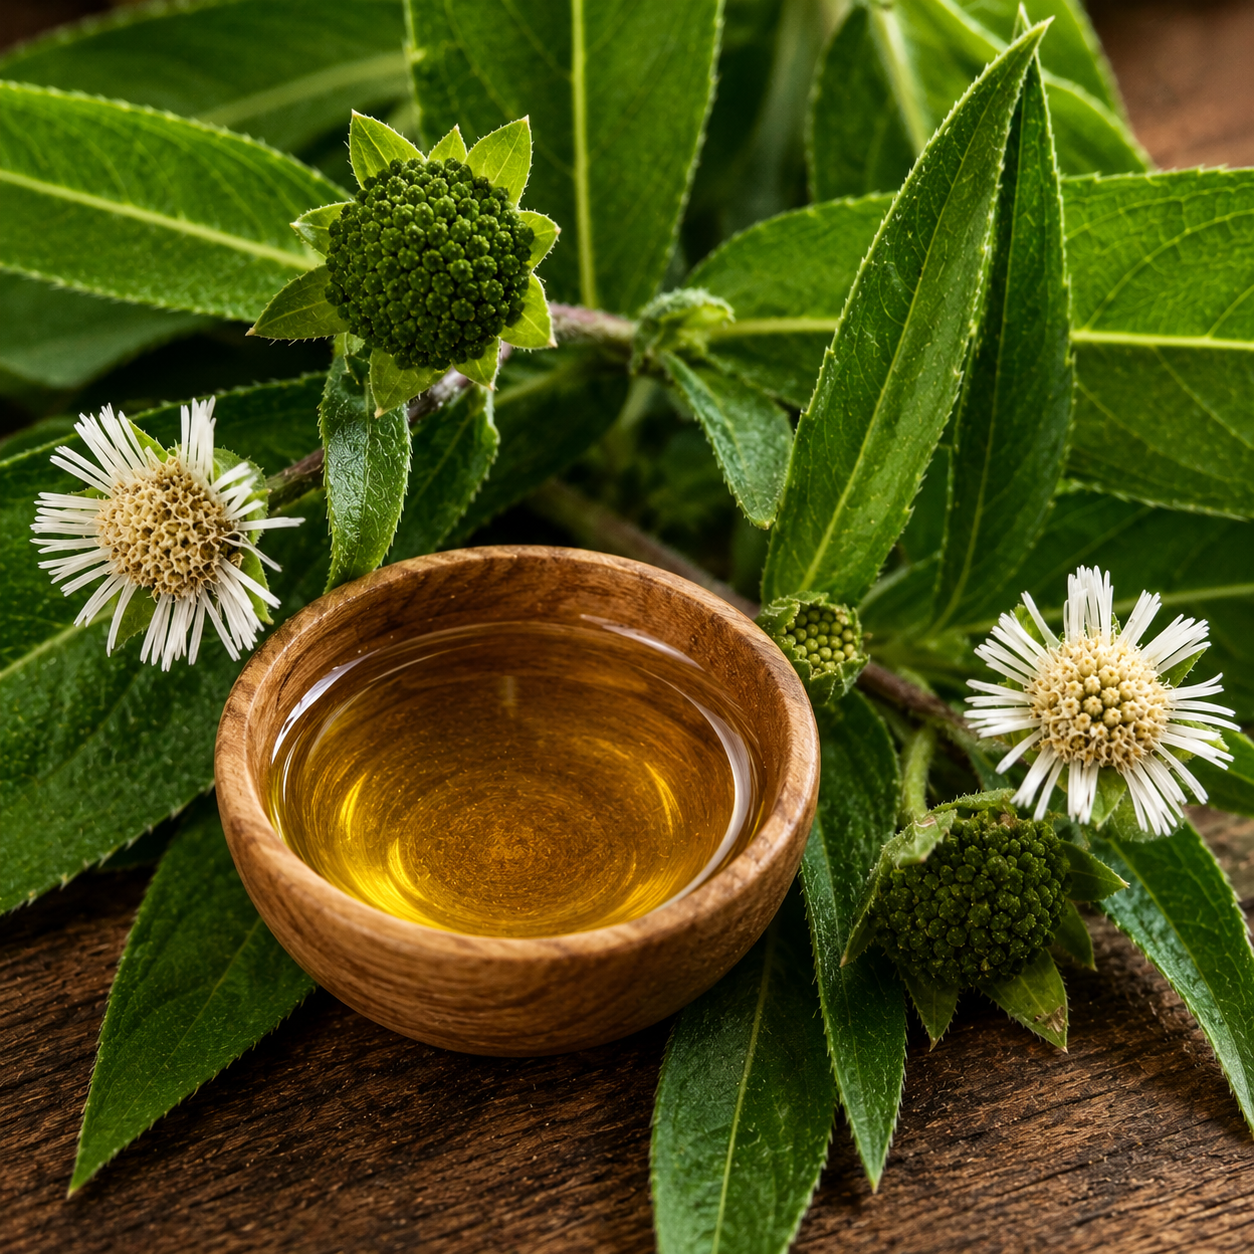
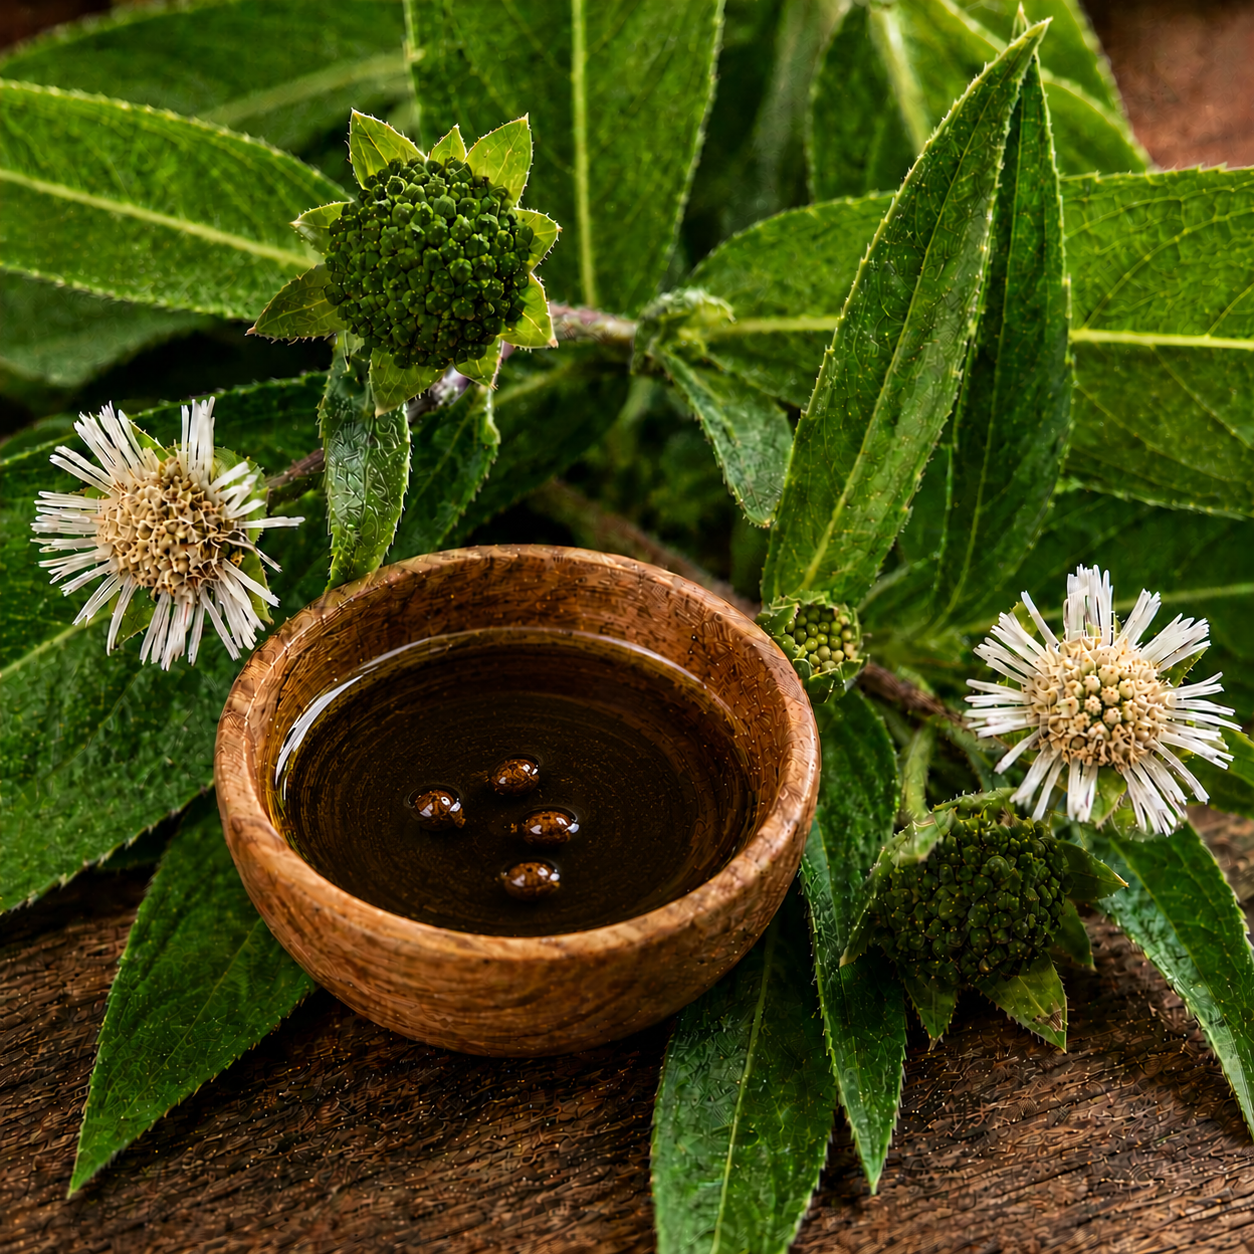
ADded the highlight for oil

diff --git a/data/services.ts b/data/services.ts
@@ -507,7 +507,7 @@ export const serviceCategories: ServiceCategory[] = [
           {
             id: "flax-seed-massage",
             name: "Flax Seed Oil Massage",
-            tagline: "Omega moisture for dry skin comfort",
+            tagline: "Deep moisturizing",
             description:
               "A deeply nourishing body massage using flax seed oil for dry skin, fatigue, and a soft healthy glow.",
             icon: "Leaf",
@@ -521,7 +521,7 @@ export const serviceCategories: ServiceCategory[] = [
           {
             id: "moringa-massage",
             name: "Moringa Oil Massage",
-            tagline: "Nourishes skin, scalp, and tired muscles",
+            tagline: "Antimicrobial",
             description:
               "A moringa oil massage for skin and scalp nourishment, bringing the richness of the miracle tree into a calming ritual.",
             icon: "TreePine",
@@ -535,7 +535,7 @@ export const serviceCategories: ServiceCategory[] = [
           {
             id: "citrullus-kumatikai-oil-massage",
             name: "Citrullus (Kumatikai) Oil Massage",
-            tagline: "Cooling lightweight hydration",
+            tagline: "Antioxidant",
             description:
               "A cooling Citrullus, also called Kumatikai, oil massage for skin that needs light hydration and summer comfort.",
             icon: "Citrus",
